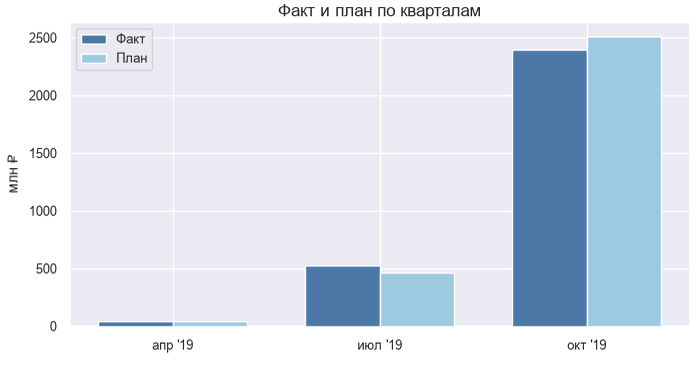
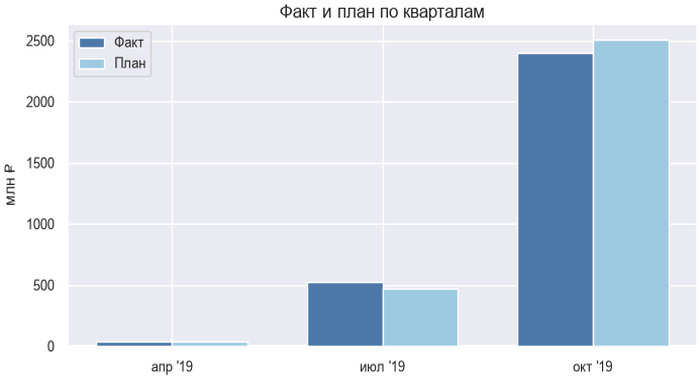
Align portfolio polish: stack, LTV 5/80 metric, tighter marketplace charts.

diff --git a/marketplace_sales/make_charts.py b/marketplace_sales/make_charts.py
@@ -45,28 +45,31 @@ def fmt_money(x, _pos=None):
     return f"{x:,.0f}"
 
 
-def trim_top(im: Image.Image, keep_pad: int = 4) -> Image.Image:
+def trim_edges(im: Image.Image, keep_pad: int = 4) -> Image.Image:
+    """Crop excess white on top/bottom/right; keep left padding for y-label."""
     arr = np.asarray(im.convert("RGB"))
     mask = (arr < 248).any(axis=2)
     ys = np.where(mask.any(axis=1))[0]
-    if len(ys) == 0:
+    xs = np.where(mask.any(axis=0))[0]
+    if len(ys) == 0 or len(xs) == 0:
         return im
     top = max(0, int(ys.min()) - keep_pad)
-    if top <= 0:
-        return im
-    cropped = im.crop((0, top, im.size[0], im.size[1]))
+    bottom = min(im.size[1], int(ys.max()) + 1 + keep_pad)
+    left = max(0, int(xs.min()) - keep_pad)
+    right = min(im.size[0], int(xs.max()) + 1 + keep_pad)
+    cropped = im.crop((left, top, right, bottom))
     return cropped.resize(TARGET, Image.Resampling.LANCZOS)
 
 
 def save_chart(fig, path: Path):
-    # Left: snug to y-label, no clipping
-    fig.subplots_adjust(left=0.10, right=0.985, top=0.93, bottom=0.14)
+    # Left: snug to y-label; bottom tighter for rotated tick labels
+    fig.subplots_adjust(left=0.10, right=0.99, top=0.93, bottom=0.16)
     fig.savefig(path, dpi=DPI, facecolor=FIG_BG)
     plt.close(fig)
     im = Image.open(path)
     if im.size != TARGET:
         im = im.resize(TARGET, Image.Resampling.LANCZOS)
-    im = trim_top(im, keep_pad=4)
+    im = trim_edges(im, keep_pad=4)
     im.save(path)
 
 
@@ -99,7 +102,10 @@ def sales_dynamics():
     fig, ax = plt.subplots(figsize=FIGSIZE, dpi=DPI)
     fig.patch.set_facecolor(FIG_BG)
     ax.plot(months, values, marker="o", color=BLUE, linewidth=2.2, markersize=5.5)
-    ax.fill_between(months, values, alpha=0.15, color=BLUE)
+    ax.fill_between(np.arange(len(months)), values, alpha=0.15, color=BLUE)
+    ax.set_xticks(np.arange(len(months)))
+    ax.set_xticklabels(months)
+    ax.set_xlim(-0.35, len(months) - 0.65)
     ax.set_title("Динамика продаж", fontsize=12, pad=4)
     ax.set_ylabel("Выручка", labelpad=6)
     ax.yaxis.set_major_formatter(mticker.FuncFormatter(fmt_money))

diff --git a/README.md b/README.md
@@ -6,7 +6,7 @@ Data Analyst (BI / Product Analytics)
 
 | Проект | Результат | Стек |
 |---|---|---|
-| [Продажи маркетплейса](marketplace_sales) | Дашборд DataLens: продажи **5,62 млрд** ₽; план выполнен; электроника лидирует по выручке | Yandex DataLens |
+| [Продажи маркетплейса](marketplace_sales) | Дашборд DataLens: продажи **5,62 млрд** ₽; план выполнен; электроника лидирует по выручке | Yandex DataLens, Matplotlib, Seaborn |
 | [A/B-тест + кластеризация](sporting_store) | Скидка в email: **+19% ARPU**; 4 сегмента для следующих рассылок | Python, Pandas, SciPy, CatBoost, K-Prototypes |
 | [LTV / когорты / ROI](fintech_ltv) | Концентрация выручки: ≈ **5%** клиентов → **80%** выручки | Python, Pandas, Seaborn, Janitor |
 | [Гипотезы по конверсии](car_subscription) | Органика CR **4.4%** vs **2.3%** у платного; desktop выше mobile на ≈ **19%** | Python, Pandas, SciPy, Statsmodels |

diff --git a/fintech_ltv/README.md b/fintech_ltv/README.md
@@ -9,6 +9,7 @@
 ## Результат
 
 - Максимальный средний чек — когорта **сент. 2016**, минимальный — **фев. 2017**
+- Концентрация выручки: ≈ **5%** клиентов дают ≈ **80%** выручки
 - Лучшие каналы по выручке: **контекстная реклама, партнёрская сеть и поисковое продвижение**; заметный рост окт–дек и спад июн–сент (сезонность)
 - Наибольший накопительный LTV — когорты **июн. и сент. 2016** — ориентир для похожего привлечения
 - Десктоп дороже и объёмнее мобильного; расходы сконцентрированы на **таргетированной рекламе, партнёрской сети и поисковом продвижении**
